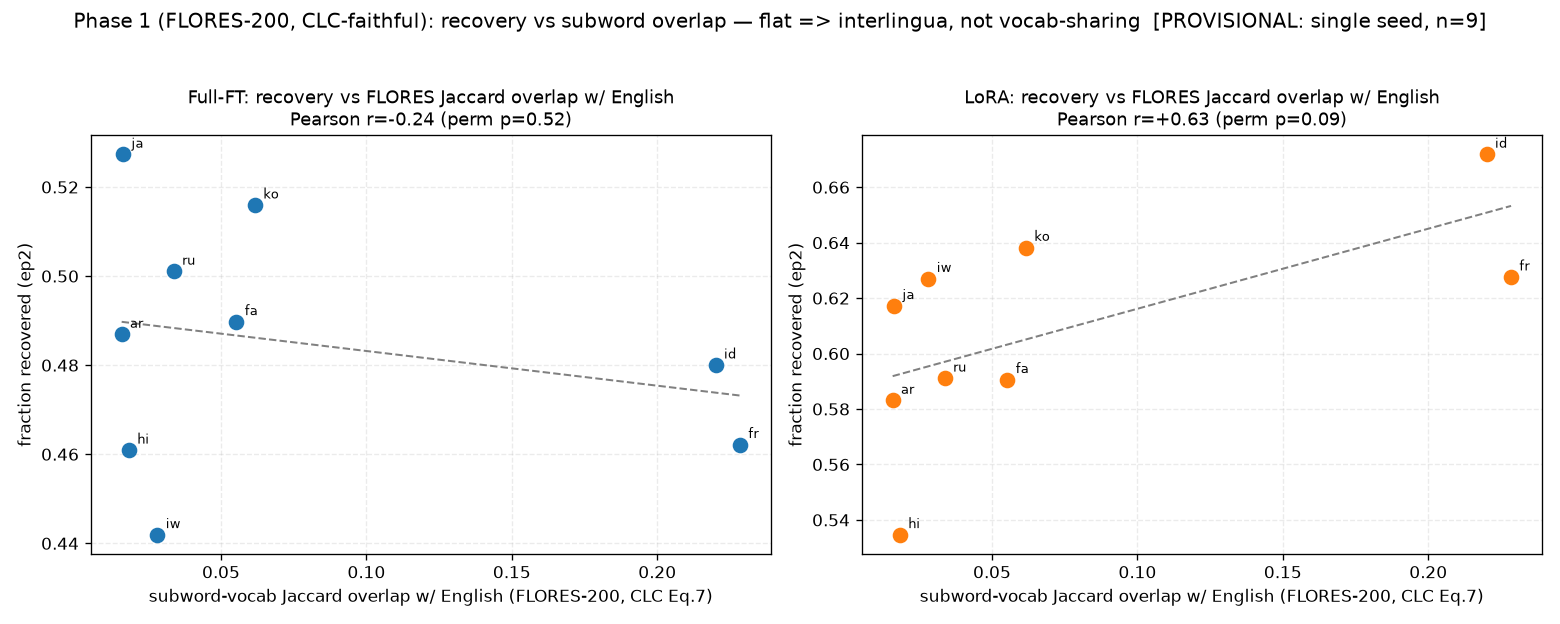
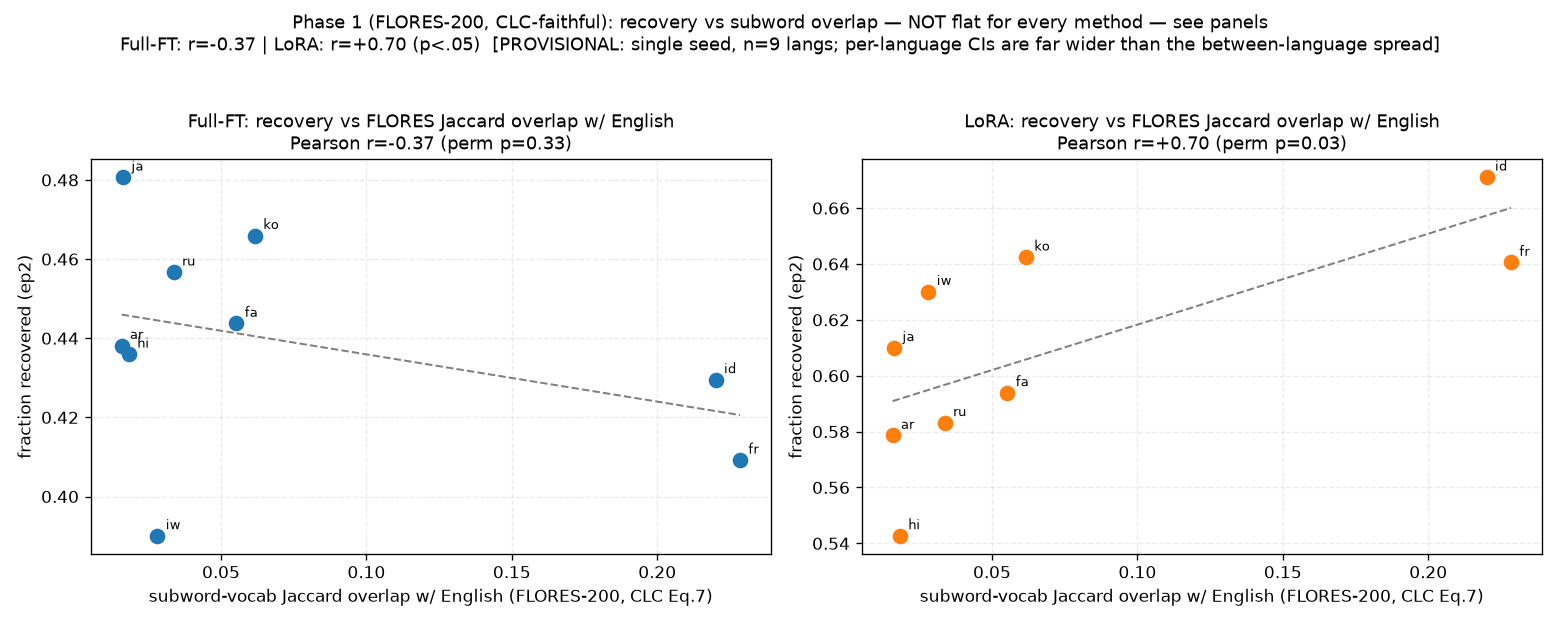
phase1: scatter verdict now follows the panels, not a fixed claim
The suptitle asserted "flat => interlingua, not vocab-sharing" while the panel
directly beneath it showed LoRA at Pearson r=+0.70, perm p=0.03. The claim holds
for Full-FT (r=-0.37, p=0.33) but not for LoRA on the current data, so the
figure contradicted itself. The headline is now derived from the computed
correlations and says which method is which.

Also surfaces the power caveat in the figure itself: per-language recovery CIs
(~126-139% wide, from bootstrap_recovery_ci) dwarf the between-language spread
(18-24%), so a correlation over 9 point estimates -- two of which (fr, id) carry
all the leverage, being the only languages above Jaccard 0.07 -- is not
something to lean on.

Claude-Session: https://claude.ai/code/session_01EURqZL7jd7Jw7i1NWkFUF5

diff --git a/studies/crosslingual_recovery/plots/phase1_vocab_overlap_flores.py b/studies/crosslingual_recovery/plots/phase1_vocab_overlap_flores.py
@@ -149,6 +149,7 @@ def main():
     matplotlib.use("Agg")
     import matplotlib.pyplot as plt
     fig, axs = plt.subplots(1, 2, figsize=(13, 5.2))
+    rs = {}
     for ax, m in zip(axs, FILES):
         x = [jac[l] for l in LANGS]; y = [rec[m][l] for l in LANGS]
         ax.scatter(x, y, s=70, color="#1f77b4" if m == "Full-FT" else "#ff7f0e", zorder=3)
@@ -157,14 +158,24 @@ def main():
         n = len(x); mx = sum(x)/n; my = sum(y)/n
         b1 = sum((a-mx)*(c-my) for a, c in zip(x, y)) / sum((a-mx)**2 for a in x); b0 = my - b1*mx
         xs = [min(x), max(x)]; ax.plot(xs, [b0+b1*v for v in xs], "--", color="grey", lw=1.2)
+        rs[m] = (pearson(x, y), perm_p(x, y))
         ax.set_title(f"{m}: recovery vs FLORES Jaccard overlap w/ English\n"
-                     f"Pearson r={pearson(x,y):+.2f} (perm p={perm_p(x,y):.2f})", fontsize=11)
+                     f"Pearson r={rs[m][0]:+.2f} (perm p={rs[m][1]:.2f})", fontsize=11)
         ax.set_xlabel("subword-vocab Jaccard overlap w/ English (FLORES-200, CLC Eq.7)", fontsize=10)
         ax.set_ylabel("fraction recovered (ep2)", fontsize=10)
         ax.grid(True, alpha=0.25, ls="--"); ax.set_axisbelow(True)
+    # The verdict has to follow the PANELS, not a fixed claim: Full-FT is flat but LoRA
+    # is not (r=+0.70, p=0.03 on the current data), so a blanket "flat => interlingua"
+    # headline contradicts the right-hand panel it sits above.
+    verdict = " | ".join(f"{m}: r={r:+.2f}" + ("" if pv >= 0.05 else " (p<.05)")
+                         for m, (r, pv) in rs.items())
+    flat = all(pv >= 0.05 for _, pv in rs.values())
+    lead = ("flat for both => recovery not explained by vocab-sharing"
+            if flat else "NOT flat for every method — see panels")
     fig.suptitle("Phase 1 (FLORES-200, CLC-faithful): recovery vs subword overlap — "
-                 "flat => interlingua, not vocab-sharing  [PROVISIONAL: single seed, n=9]",
-                 fontsize=12)
+                 f"{lead}\n{verdict}  [PROVISIONAL: single seed, n=9 langs; "
+                 "per-language CIs are far wider than the between-language spread]",
+                 fontsize=11)
     fig.tight_layout(rect=(0, 0, 1, 0.95))
     FIGS.mkdir(parents=True, exist_ok=True)
     out = FIGS / "phase1_vocab_overlap_flores.png"
